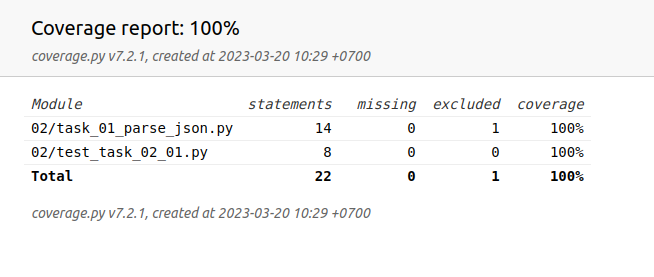
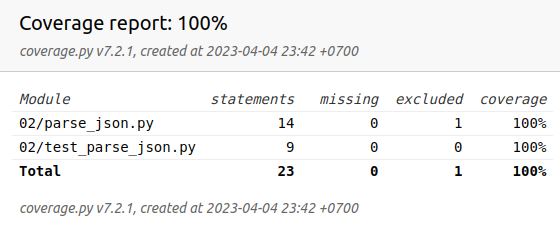
Fix tests and task

diff --git a/02/test_parse_json.py b/02/test_parse_json.py
@@ -7,13 +7,14 @@ from parse_json import parse_json
 
 
 @pytest.mark.parametrize(
-    ["json_str", "required_fields", "keywords", "responses", "result"],
+    ["json_str", "required_fields", "keywords", "responses", "args", "result"],
     [
         [
             '{"key1": "word word1 word2"}',
             None,
             None,
             None,
+            [],
             None,
         ],
         [
@@ -21,6 +22,7 @@ from parse_json import parse_json
             ['key'],
             None,
             None,
+            [],
             None,
         ],
         [
@@ -28,20 +30,44 @@ from parse_json import parse_json
             ['key'],
             ['word1'],
             None,
-            (0, 0),
+            [],
+            (0, []),
         ],
         [
             '{"key1": "word word1 word2", "key2": "word1 word2"}',
             ['key1', 'key2'],
             ['word1'],
+            [4, 4],
+            [(("key1", "word1"),), (("key2", "word1"),)],
+            (2, [4, 4]),
+        ],
+        [
+            '{"key1": "word word1 word2", "key2": "word1 word2"}',
+            ['key1', 'key2'],
+            ['word1', 'word2'],
+            [4, 4, 4, 4],
+            [
+                (("key1", "word1"),),
+                (("key1", "word2"),),
+                (("key2", "word1"),),
+                (("key2", "word2"),),
+            ],
+            (4, [4, 4, 4, 4]),
+        ],
+        [
+            '{"key1": "word word1 word2", "key2": "word1 word2"}',
+            ['key1', 'key2'],
+            ['word3'],
             [3, 3],
-            (2, 6),
+            [],
+            (0, []),
         ],
         [
             '{"key1": "word word1 word2", "key2": "word1 word2"}',
             None,
             ['word1'],
             None,
+            [],
             None,
         ],
     ],
@@ -51,8 +77,10 @@ def test_parse_json(
     json_str: str,
     required_fields: Optional[str],
     keywords: Optional[str],
-    responses: list[int],
-    result: list,
+    responses: Optional[list[int]],
+    args: Optional[tuple],
+    result: Optional[list],
 ):
     func = mocker.Mock(side_effect=responses)
     assert parse_json(json_str, func, required_fields=required_fields, keywords=keywords) == result
+    assert func.call_args_list == args

diff --git a/04/custom_meta.py b/04/custom_meta.py
@@ -1,0 +1,52 @@
+class CustomMeta(type):
+
+    def __new__(mcs, name, bases, classdict, **kwargs):
+        list_changes_keys = [
+            key
+            for key in classdict.keys() if not (key.startswith("__") and key.endswith("__"))
+        ]
+        for key in list_changes_keys:
+            classdict[f"custom_{key}"] = classdict.pop(key)
+        cls = super().__new__(mcs, name, bases, classdict)
+        print('Meta __new__', cls, bases, classdict, kwargs)
+        return cls
+
+    def __init__(cls, name, bases, classdict, **kwargs):
+        list_changes_keys = [
+            key
+            for key in classdict.keys() if not (key.startswith("__") and key.endswith("__"))
+        ]
+        for key in list_changes_keys:
+            classdict[f"custom_{key}"] = classdict.pop(key)
+        print(classdict)
+        super().__init__(name, bases, classdict)
+
+
+class CustomClass(metaclass=CustomMeta):
+    x = 50
+
+    def __init__(self, val=99):
+        self.val = val
+
+    def line(self):
+        return 100
+
+    def __str__(self):
+        return "Custom_by_metaclass"
+
+assert CustomClass.custom_x == 50
+
+inst = CustomClass()
+assert inst.custom_x == 50
+assert inst.custom_val == 99
+assert inst.custom_line() == 100
+assert str(inst) == "Custom_by_metaclass"
+
+inst.x  # ошибка
+inst.val  # ошибка
+inst.line()  # ошибка
+inst.yyy  # ошибка
+
+inst.dynamic = "added later"
+assert inst.custom_dynamic == "added later"
+inst.dynamic  # ошибка

diff --git a/02/parse_json.py b/02/parse_json.py
@@ -2,8 +2,8 @@ import json
 from typing import Callable, Optional
 
 
-def word_handler(word: str) -> int:
-    return len(word)  # pragma: no cover
+def word_handler(key: str, word: str) -> int:
+    return len(word) + len(key)  # pragma: no cover
 
 
 def parse_json(
@@ -11,10 +11,10 @@ def parse_json(
         keyword_callback: Callable = word_handler,
         required_fields: Optional[str] = None,
         keywords: Optional[str] = None
-) -> Optional[tuple[int, int]]:
-    if any([required_fields is None, keywords is None]):
+) -> Optional[tuple[int, list]]:
+    if any([required_fields is None, keywords is None, keyword_callback is None]):
         return None
-    count_call_callback, sum_responses = 0, 0
+    count_call_callback, responses = 0, []
     json_doc = json.loads(json_str)
     for key, value in json_doc.items():
         if all([
@@ -22,6 +22,6 @@ def parse_json(
             intersection := set(value.split(" ")).intersection(set(keywords)),
         ]):
             for word in intersection:
-                sum_responses += keyword_callback(word)
+                responses.append(keyword_callback(key, word))
                 count_call_callback += 1
-    return count_call_callback, sum_responses
+    return count_call_callback, responses

diff --git a/04/descriptors.py b/04/descriptors.py
@@ -1,0 +1,19 @@
+class Integer:
+    pass
+
+
+class String:
+    pass
+
+
+class PositiveInteger:
+    pass
+
+
+class Data:
+    num = Integer()
+    name = String()
+    price = PositiveInteger()
+
+    def __init__(...):
+        ....
